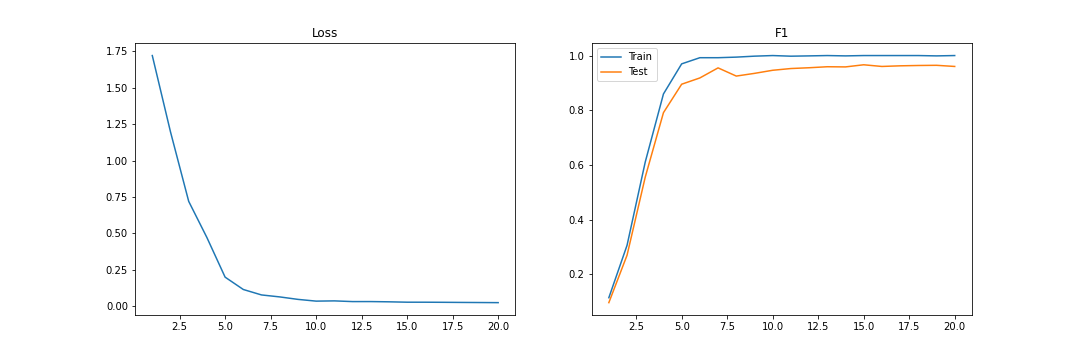
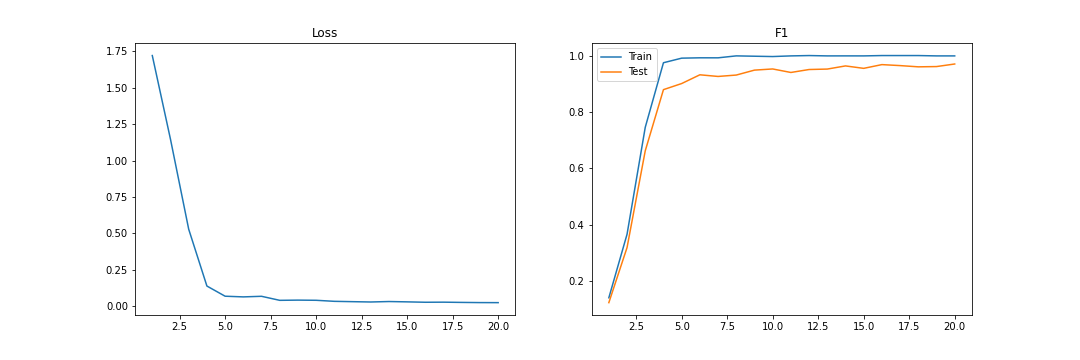
hola2

diff --git a/mlp_digitos.py b/mlp_digitos.py
@@ -19,37 +19,37 @@ Losses=[]
 F1s_Train=[]
 for i in range(20):
     j=i+1
-    mlp = sklearn.neural_network.MLPClassifier(activation='logistic', hidden_layer_sizes=(j),max_iter=1000)
+    print(j)# Para saber en qué iteración sucede el prob de convergencia
+    mlp = sklearn.neural_network.MLPClassifier(activation='logistic', hidden_layer_sizes=(j),max_iter=2600)
     mlp.fit(X_train, Y_train)
     Losses.append(mlp.loss_)
     F1s_Train.append(sklearn.metrics.f1_score(Y_train, mlp.predict(X_train), average='macro'))
     F1s_Test.append(sklearn.metrics.f1_score(Y_test, mlp.predict(X_test), average='macro'))
-    
+#con 100 it ,con 500 , 1000, 1500,2000 seguía apareciendo probl. de convergencia    
 neuronas=np.arange(1,21)
 plt.figure(figsize=(15,5))
-
 plt.subplot(1,2,1)
 plt.title("Loss")
 plt.plot(neuronas,Losses)
-
 plt.subplot(1,2,2)
 plt.title("F1")
 plt.plot(neuronas,F1s_Train,label='Train')
 plt.plot(neuronas,F1s_Test,label='Test')
 plt.legend()
 plt.savefig('loss_f1.png')
-#Elegimos 6
-
-modelo = sklearn.neural_network.MLPClassifier(activation='logistic', hidden_layer_sizes=(6),max_iter=100)
+#Elegimos 6 porque en test se ve menos cambio después de 6 en 4 todavía ve cambio en F1 en un 10=%
+n_neurons=6
+modelo = sklearn.neural_network.MLPClassifier(activation='logistic', hidden_layer_sizes=(n_neurons),max_iter=2500)
 mlp.fit(X_train, Y_train)
+plt.figure(figsize=(12,12))
 
-plt.figure(figsize=(15,5))
-
-
-for i in range(6):
+for i in range(n_neurons):
     scale = np.max(mlp.coefs_[0])
     plt.subplot(3,2,i+1)
+    plt.title("Neurona "+str(i+1))
     plt.imshow(mlp.coefs_[0][:,i].reshape(8,8),cmap=plt.cm.RdBu, 
                    vmin=-scale, vmax=scale)
-plt.savefig('neuronas.png')      
+plt.savefig('neuronas.png')    
+# No se ven filas o columnas repetidas entonces no son redundantes
+
     
